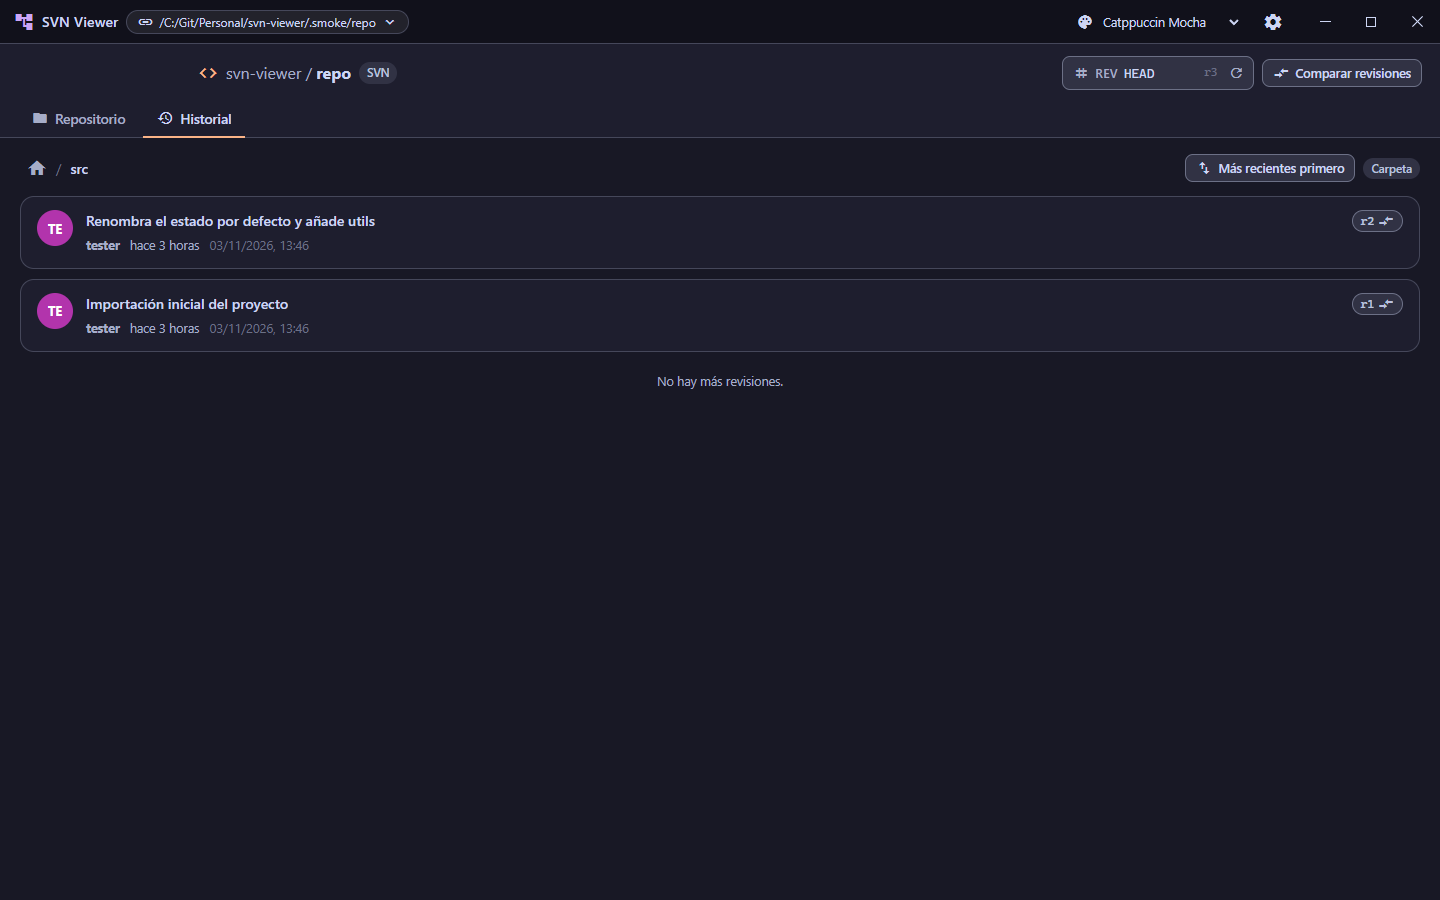
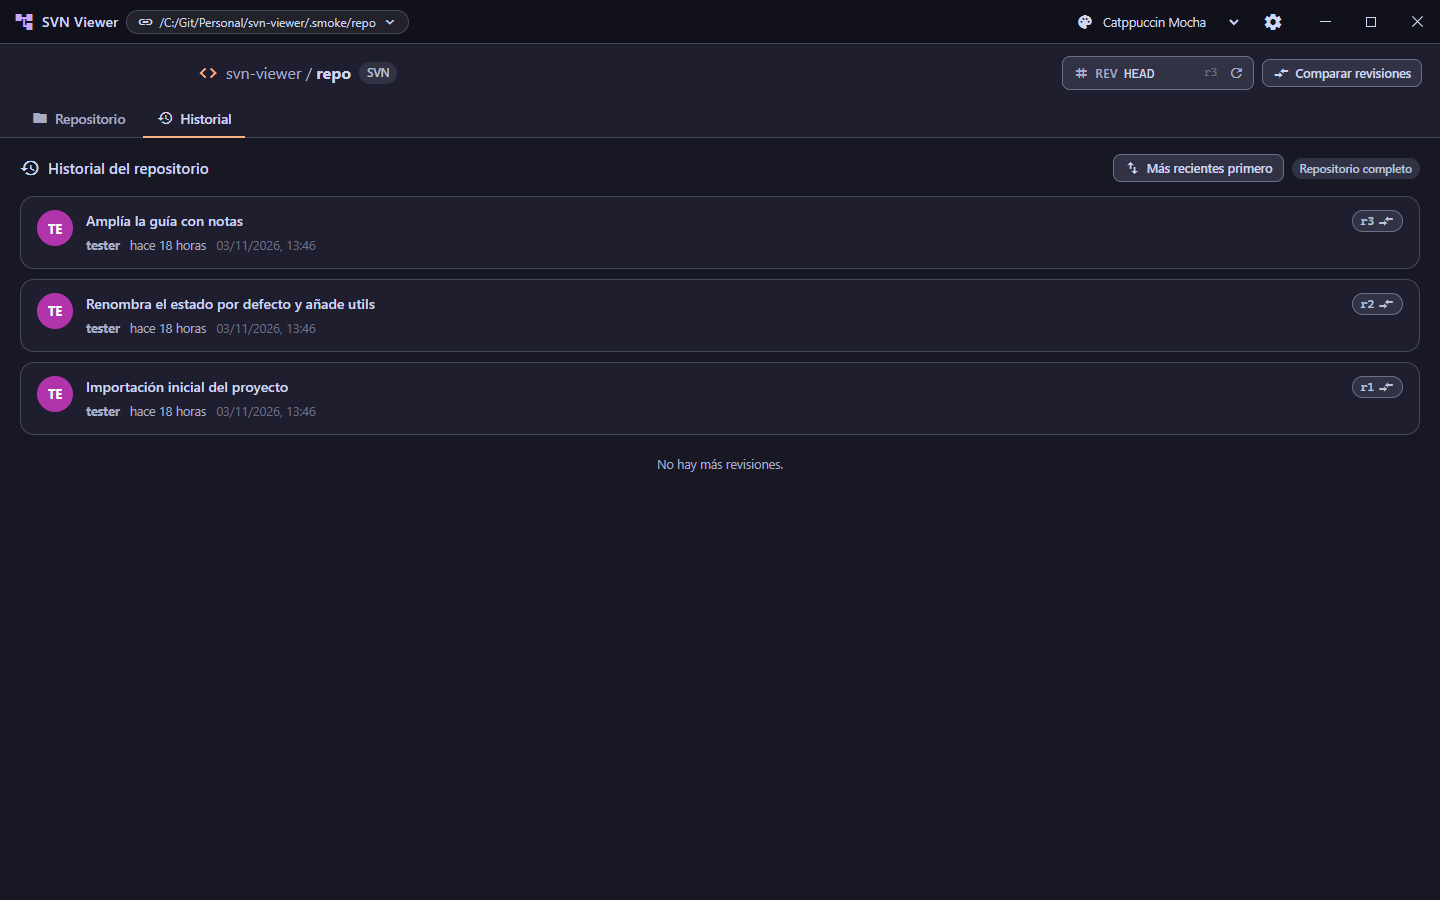
README actualizado

diff --git a/src/styles.css b/src/styles.css
@@ -831,7 +831,7 @@ select {
   background: var(--surface-hover);
 }
 
-.col-name {
+td.col-name {
   display: flex;
   align-items: center;
   gap: 9px;

diff --git a/README.md b/README.md
@@ -33,6 +33,36 @@ como backend: sin servidores intermedios, sin dependencias de WebDAV propias.
 - Ventana *frameless* con controles propios, barra de progreso durante las
   peticiones y banner global de errores.
 
+## Capturas
+
+**Navegador de ficheros** — tabla con nombre, último commit (revisión y autor) y tiempo relativo:
+
+![Vista de árbol](docs/screenshots/arbol.png)
+
+**Visor de código** — resaltado de sintaxis, números de línea y cabecera con revisión y autor:
+
+![Visor de código](docs/screenshots/visor.png)
+
+**Blame** — autor y revisión por línea:
+
+![Blame](docs/screenshots/blame.png)
+
+**Historial del repositorio** — mensaje, autor, fecha y revisión de cada commit:
+
+![Historial](docs/screenshots/historial.png)
+
+**Diff lado a lado** entre dos revisiones:
+
+![Diff lado a lado](docs/screenshots/diff-lado-a-lado.png)
+
+**Diff unificado** con colapso de contexto:
+
+![Diff unificado](docs/screenshots/diff-unificado.png)
+
+**Tema GitLab Clásico** (idioma inglés):
+
+![Árbol con tema GitLab Clásico](docs/screenshots/arbol-gitlab-light.png)
+
 ## Requisitos
 
 | Requisito | Detalle |
@@ -63,14 +93,15 @@ pnpm build
 pnpm start
 
 # 5. Empaquetado: carpeta con `SVN Viewer.exe` (icono `app.ico`)
-pnpm dist             # release\SVN Viewer-win32-x64\
-pnpm dist:nsis        # instalador NSIS (opcional)
+pnpm dist             # release\SVN Viewer-win32-x64\SVN Viewer.exe (portable)
+pnpm dist:nsis        # release\SVN Viewer Setup <versión>.exe (instalador NSIS)
 pnpm dist:dir         # sólo la carpeta desempaquetada, vía electron-builder
 ```
 
-`pnpm dist` replica el build de [tomcat-launcher](../tomcat-launcher):
-empaqueta en un directorio temporal **fuera** del proyecto (evita el EBUSY de
-CrowdStrike) y copia el resultado con `robocopy /MIR` a `release/`.
+`pnpm dist` empaqueta en un directorio temporal **fuera** del proyecto (evita el
+EBUSY de CrowdStrike) y copia el resultado con `robocopy /MIR` a `release/`. La
+versión sale de `package.json`: actualízala antes de generar una release nueva.
+La carpeta `release/` está en `.gitignore`.
 
 ### Smoke test (captura automática)
 
@@ -87,6 +118,14 @@ node scripts/smoke.js --lang en --theme gitlab-light --out captura.png
 Variables que consume el script de smoke: `SMOKE_SHOT`, `SMOKE_ROUTE`,
 `SMOKE_DEBUG` (vuelca el texto de la UI a consola), `SVN_REPO_URL`, `SVN_LANG`,
 `SVN_THEME`.
+
+Las capturas de `docs/screenshots/` se regeneran con `pnpm build` seguido de
+`node scripts/smoke.js` con `--out` apuntando a la carpeta. Los smoke test de
+`--route /tree` y `--route "/blob?path=src/app.js"` necesitan el mismo
+repositorio de prueba que crea el script.
+
+Las vistas de **Abrir proyecto** y **Explorador** se capturaron a mano: el smoke
+no abre esos diálogos.
 
 ## Configuración
 
@@ -140,6 +179,7 @@ src/               Renderer Vue 3 + Vite
   diff-utils.js    Parser del diff unificado + jsdiff para fichero único
   views/           TreeView, BlobView, BlameView, LogView, DiffView
   styles.css       Estilos (sólo usa variables de los temas)
+docs/screenshots/  Capturas usadas en este README
 scripts/
   dev.js           Arranque Vite + Electron
   smoke.js         Captura automática contra un repo de prueba
